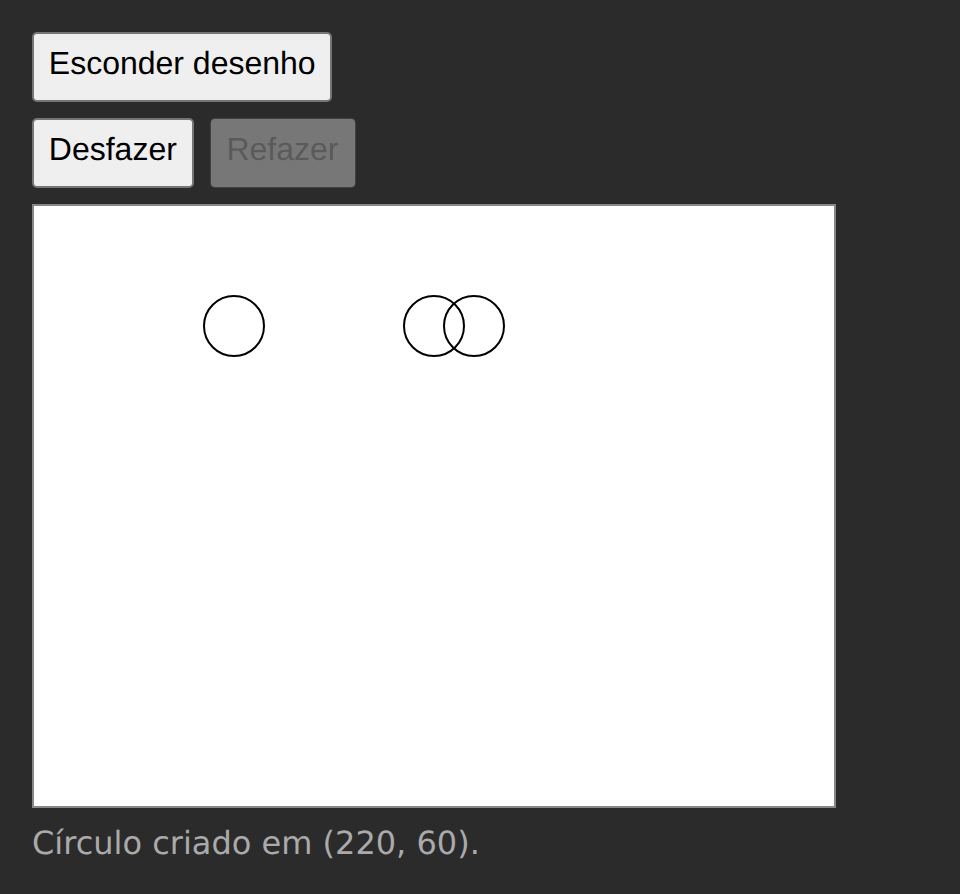
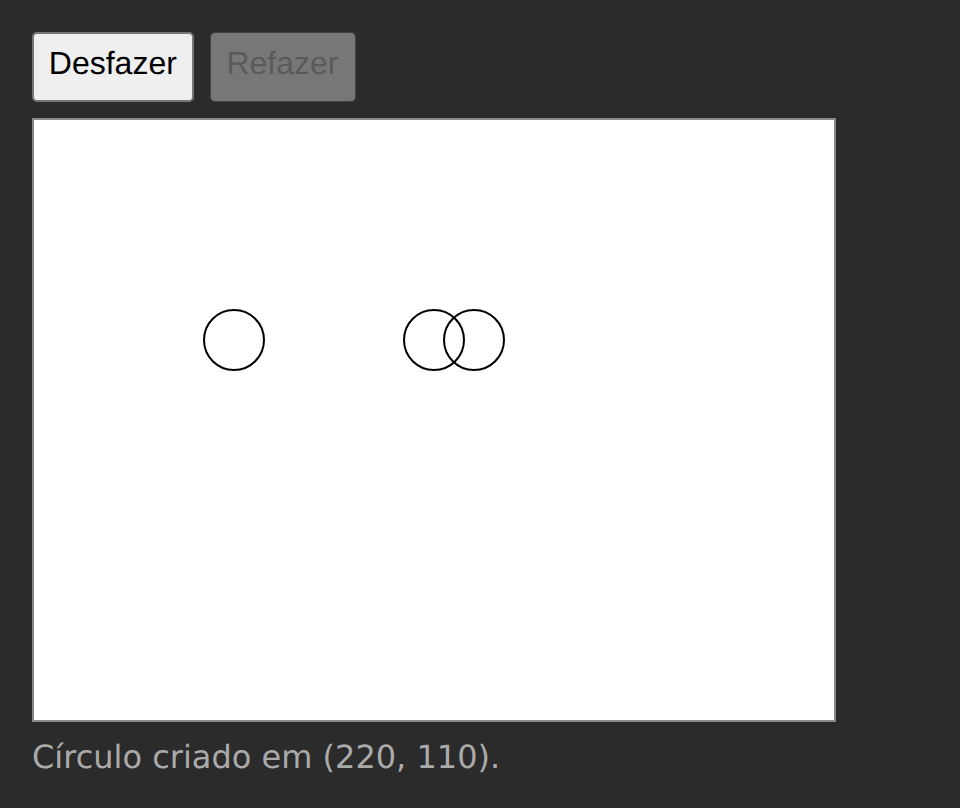
Hospeda o Circle Drawer no React pela página comum
O Circle Drawer no React ainda traz a página com o botão "Esconder
desenho"/"Mostrar desenho", um segundo componente que só existe para o
teste de conformidade tirar o desenho da página, e por isso falha nas
verificações de "Limpeza ao sair da tela", que desde "Confere a limpeza
ao sair da tela pela rota da página, sem botão" saem e voltam pela rota
do hash de implementacoes/pagina.ts (ADR 0043).

A página sai, com o estado "visivel" e a montagem condicional do
desenho, e fica o par montar e desmontar no idioma da tecnologia: o
createRoot do contêiner com o render do desenho, e o unmount() da raiz,
que roda as limpezas dos efeitos. O contêiner #raiz do index.html passa
a ser o <main> com a classe do layout, que a página montava. A limpeza
ao sair da tela, no retorno do useEffect, não muda: é o que se compara.

Conferido com npm run conformidade -- desenho-de-circulos/react (27
verificações ok) e com as capturas regeradas: as 5 cenas saem sem o
botão, iguais às do Web Component, e diferentes das do Solid até o
commit dele.

diff --git a/implementacoes/desenho-de-circulos/react/src/main.tsx b/implementacoes/desenho-de-circulos/react/src/main.tsx
@@ -15,6 +15,7 @@ import {
   type Circulo,
   type Ponto,
 } from "../../dominio";
+import { hospedar } from "../../../pagina";
 import "../../estilo.css";
 
 function AreaDeDesenho() {
@@ -224,21 +225,8 @@ function AreaDeDesenho() {
   );
 }
 
-// A página: o botão que tira o desenho da página e o põe de volta.
-function Pagina() {
-  const [visivel, setVisivel] = useState(true);
-  return (
-    <main className="pagina">
-      <button
-        type="button"
-        className="alternar"
-        onClick={() => setVisivel(!visivel)}
-      >
-        {visivel ? "Esconder desenho" : "Mostrar desenho"}
-      </button>
-      {visivel && <AreaDeDesenho />}
-    </main>
-  );
-}
-
-createRoot(document.getElementById("raiz")!).render(<Pagina />);
+hospedar((conteiner) => {
+  const raiz = createRoot(conteiner);
+  raiz.render(<AreaDeDesenho />);
+  return () => raiz.unmount();
+});

diff --git a/implementacoes/desenho-de-circulos/react/index.html b/implementacoes/desenho-de-circulos/react/index.html
@@ -6,7 +6,7 @@
     <title>Circle Drawer com React</title>
   </head>
   <body>
-    <div id="raiz"></div>
+    <main id="raiz" class="pagina"></main>
     <script type="module" src="/src/main.tsx"></script>
   </body>
 </html>
